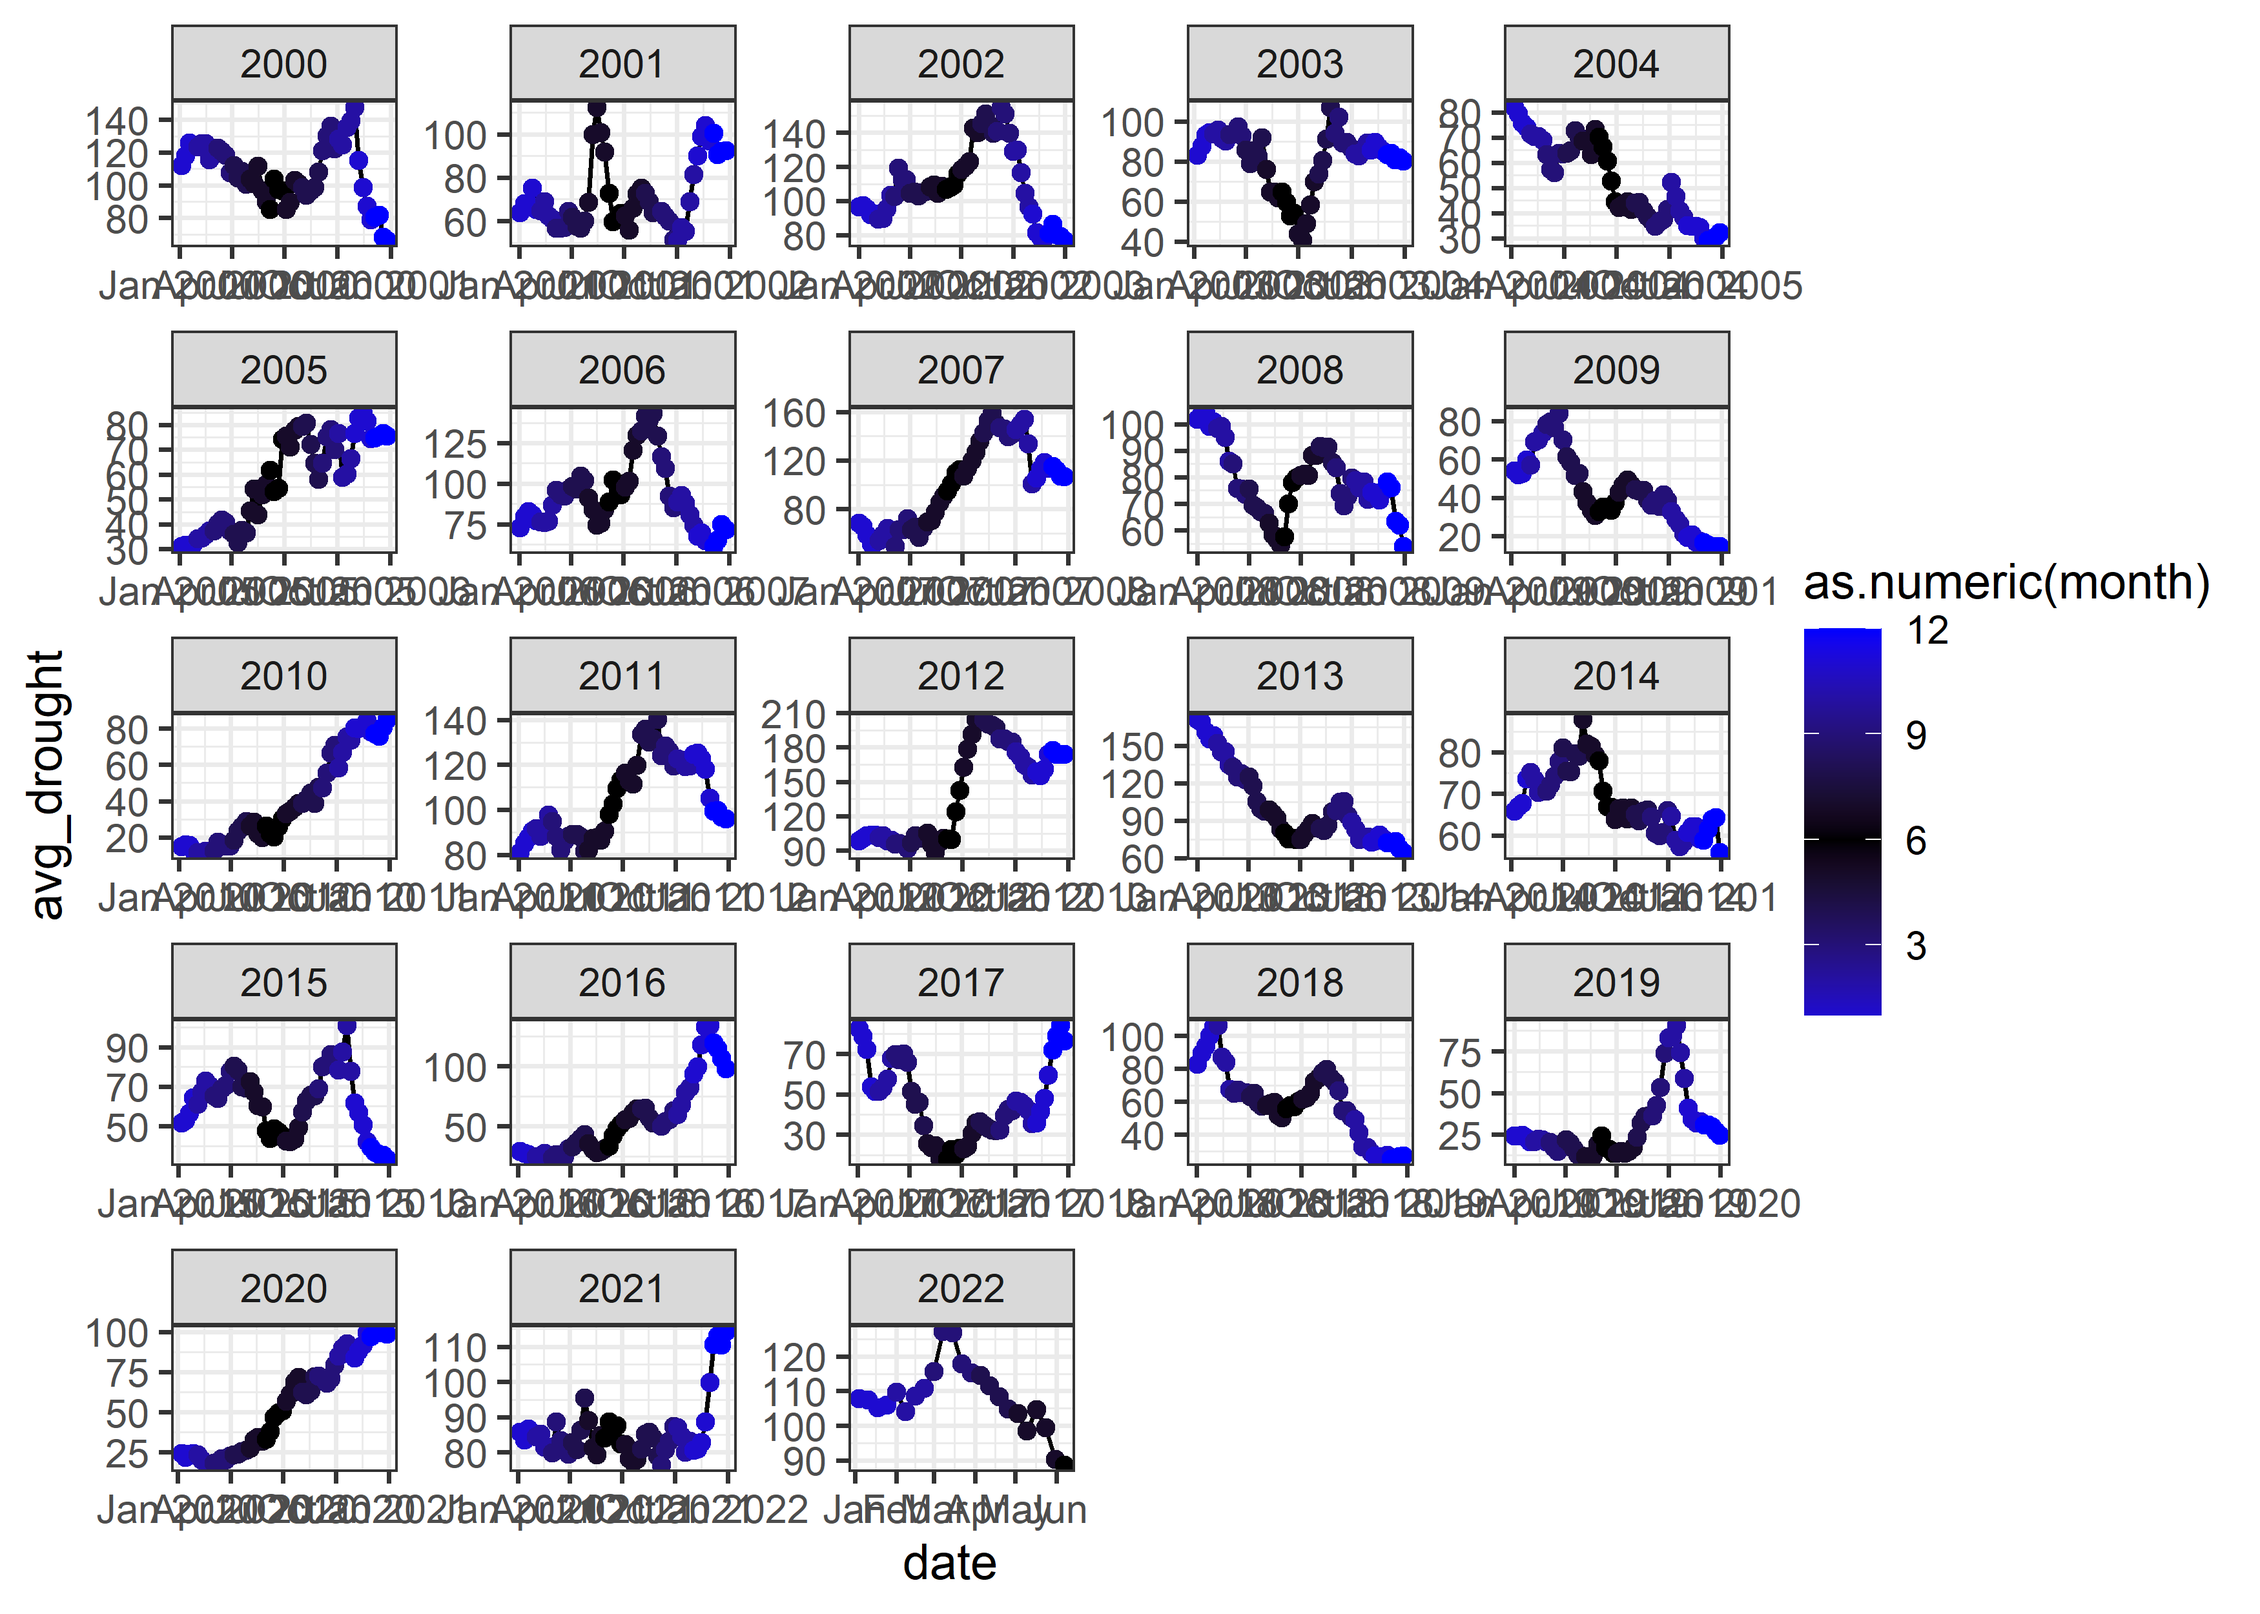
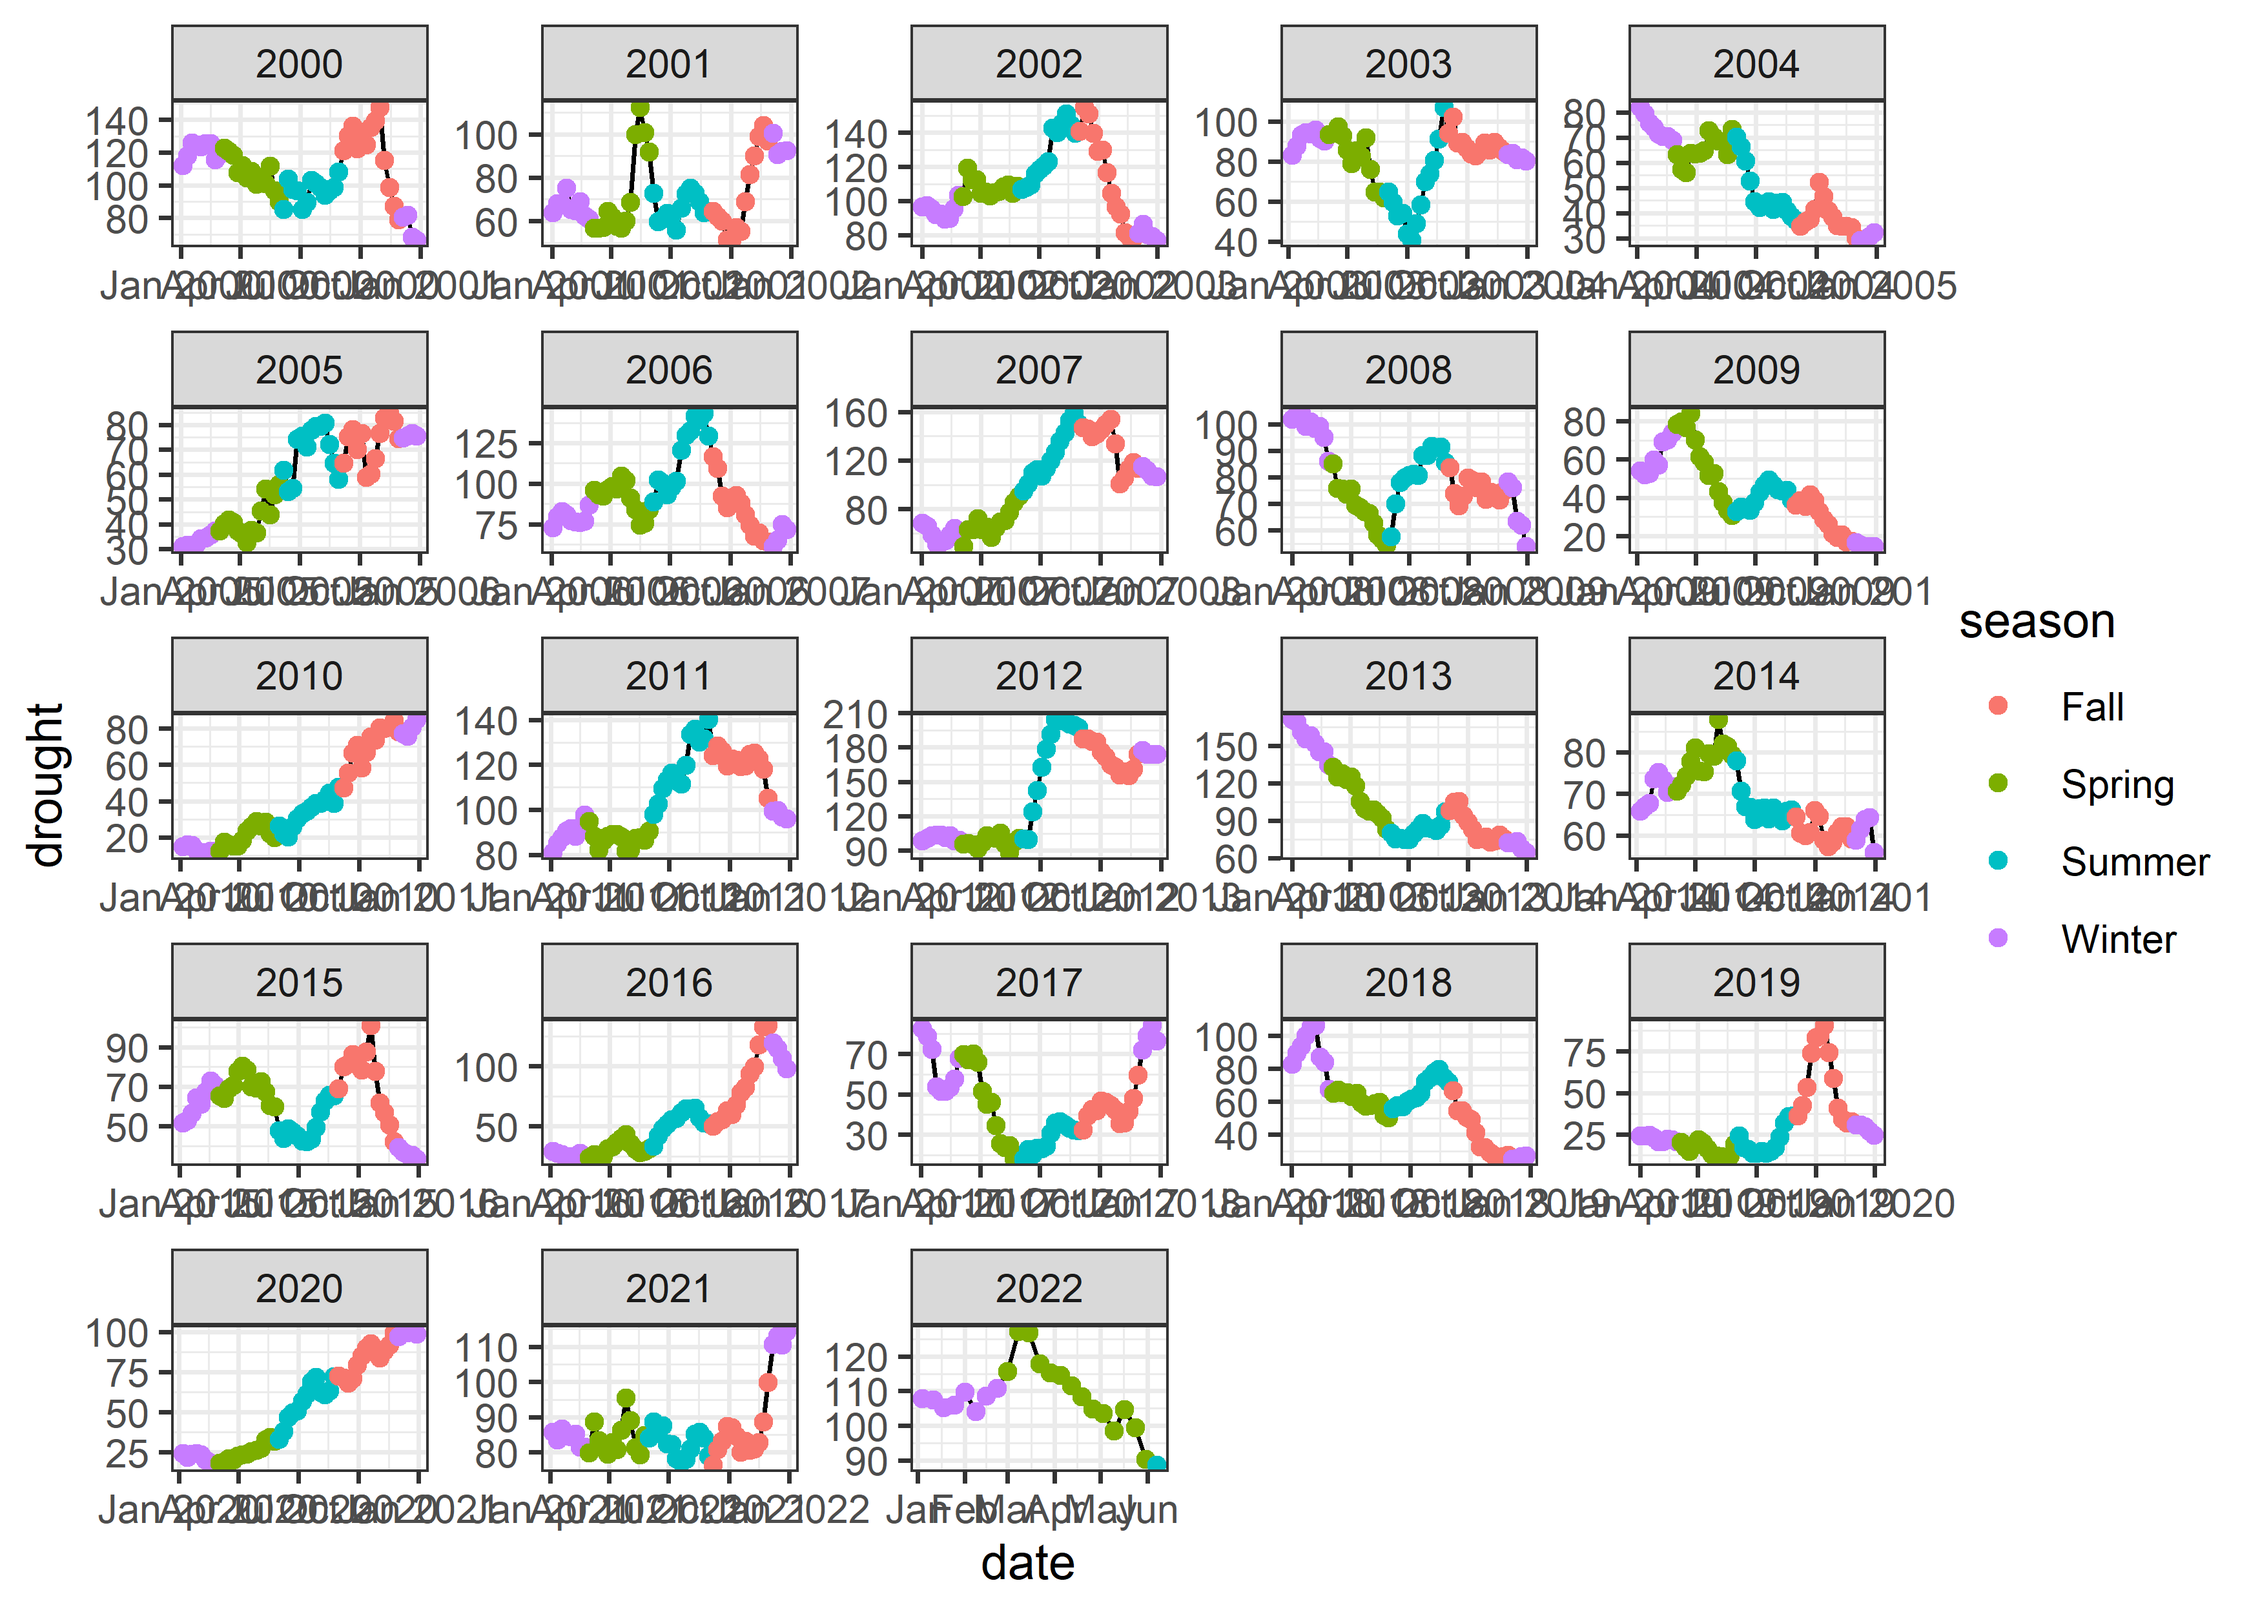
Season added to avg_drought data

diff --git a/06-14-22/Drought.md b/06-14-22/Drought.md
@@ -131,30 +131,57 @@ drought_fips %>%
 ``` r
 avg_drought <- drought_fips %>% 
   group_by(date) %>% 
-  summarize(avg_drought = mean(DSCI)) %>% 
-  mutate(month = month(date, label = TRUE))
+  summarize(drought = mean(DSCI)) %>% 
+  mutate(month = month(date, label = TRUE),
+         season = case_when(grepl("Dec|Jan|Feb", month) ~ "Winter",
+                            grepl("Mar|Apr|May", month) ~ "Spring",
+                            grepl("Jun|Jul|Aug", month) ~ "Summer",
+                            grepl("Sep|Oct|Nov", month) ~ "Fall"))
 
 avg_drought %>% 
-  ggplot(aes(date, avg_drought)) + geom_line() + 
-  geom_point(aes(color = as.numeric(month))) + facet_wrap(~year(date), scales = "free") +
-  scale_color_gradient2(low = "blue", mid = "black", high = "blue", midpoint = 6)
+  ggplot(aes(date, drought)) + geom_line() + 
+  geom_point(aes(color = season)) + facet_wrap(~year(date), scales = "free")
 ```
 
 ![](Drought_files/figure-gfm/unnamed-chunk-6-1.png)<!-- -->
 
 ``` r
 avg_drought %>% 
-  ggplot(aes(date, avg_drought)) + geom_line() + 
-  geom_point(aes(color = month))
+  ggplot(aes(date, drought)) + geom_line() + 
+  geom_point(aes(color = season))
 ```
 
 ![](Drought_files/figure-gfm/unnamed-chunk-6-2.png)<!-- -->
+
+``` r
+(avg_drought %>% 
+  ggplot(aes(drought, fct_rev(month), fill = season)) + geom_col() +
+  labs(y = "", fill = "")) /
+(avg_drought %>% 
+   ggplot(aes(drought, season, fill = season)) + geom_boxplot() +
+   labs(y = "", fill = "") + theme(legend.position = "none")) + plot_layout(guides = 'collect')
+```
+
+![](Drought_files/figure-gfm/unnamed-chunk-6-3.png)<!-- -->
+
+``` r
+anova(aov(drought ~ season, avg_drought))
+```
+
+    ## Analysis of Variance Table
+    ## 
+    ## Response: drought
+    ##             Df  Sum Sq Mean Sq F value    Pr(>F)    
+    ## season       3   23097  7699.2   6.289 0.0003117 ***
+    ## Residuals 1167 1428664  1224.2                      
+    ## ---
+    ## Signif. codes:  0 '***' 0.001 '**' 0.01 '*' 0.05 '.' 0.1 ' ' 1
 
 # Fitting an AR model on the timeseries
 
 ``` r
 library(astsa)
-timeseries <- ts(avg_drought$avg_drought, start = c(2000, 1), freq = 52)
+timeseries <- ts(avg_drought$drought, start = c(2000, 1), freq = 52)
 
 plot(timeseries)
 ```
@@ -312,8 +339,6 @@ sarima(timeseries, 3, 0, 0)
 sarima.for(timeseries, 52, 3, 0, 0)
 ```
 
-![](Drought_files/figure-gfm/unnamed-chunk-7-4.png)<!-- -->
-
     ## $pred
     ## Time Series:
     ## Start = c(2022, 28) 
@@ -340,3 +365,9 @@ sarima.for(timeseries, 52, 3, 0, 0)
     ## [36] 33.121747 33.241455 33.353191 33.457511 33.554929 33.645921 33.730926
     ## [43] 33.810353 33.884580 33.953958 34.018813 34.079449 34.136145 34.189166
     ## [50] 34.238753 34.285134 34.328521
+
+``` r
+title(main = "One year forcast", sub = "Grey Shades are 1 and 2 standard errors")
+```
+
+![](Drought_files/figure-gfm/unnamed-chunk-7-4.png)<!-- -->
